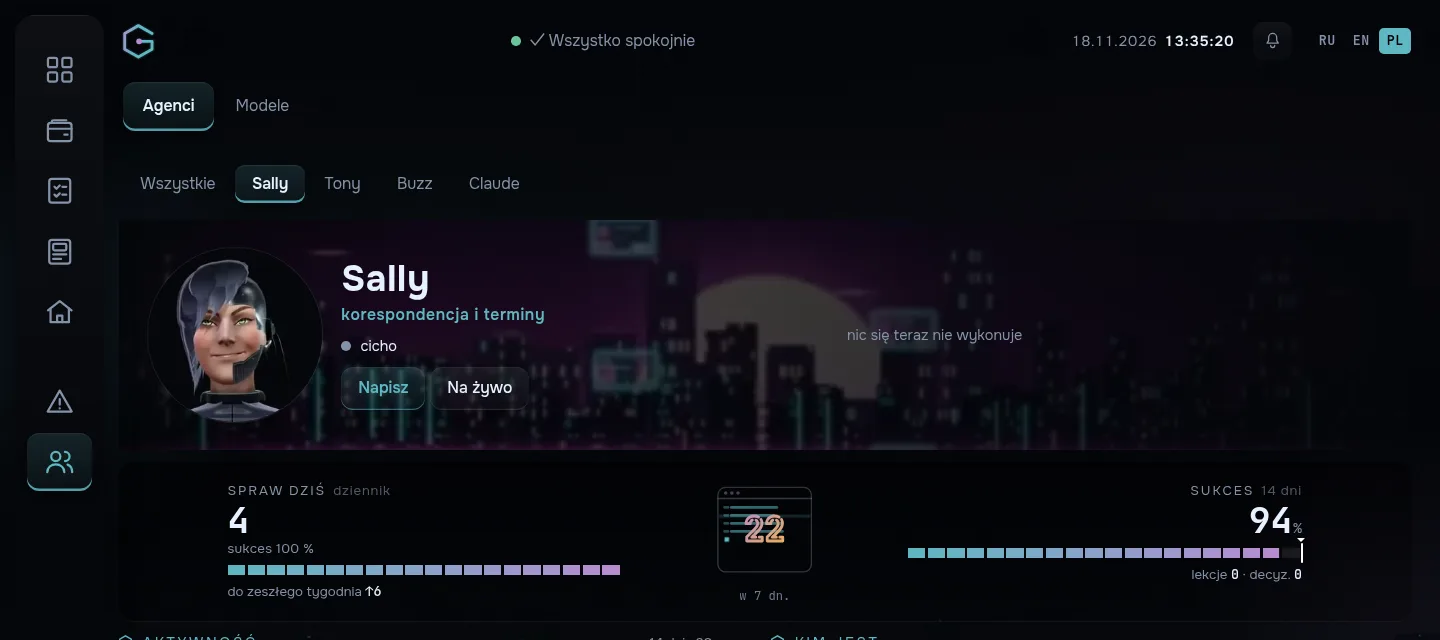
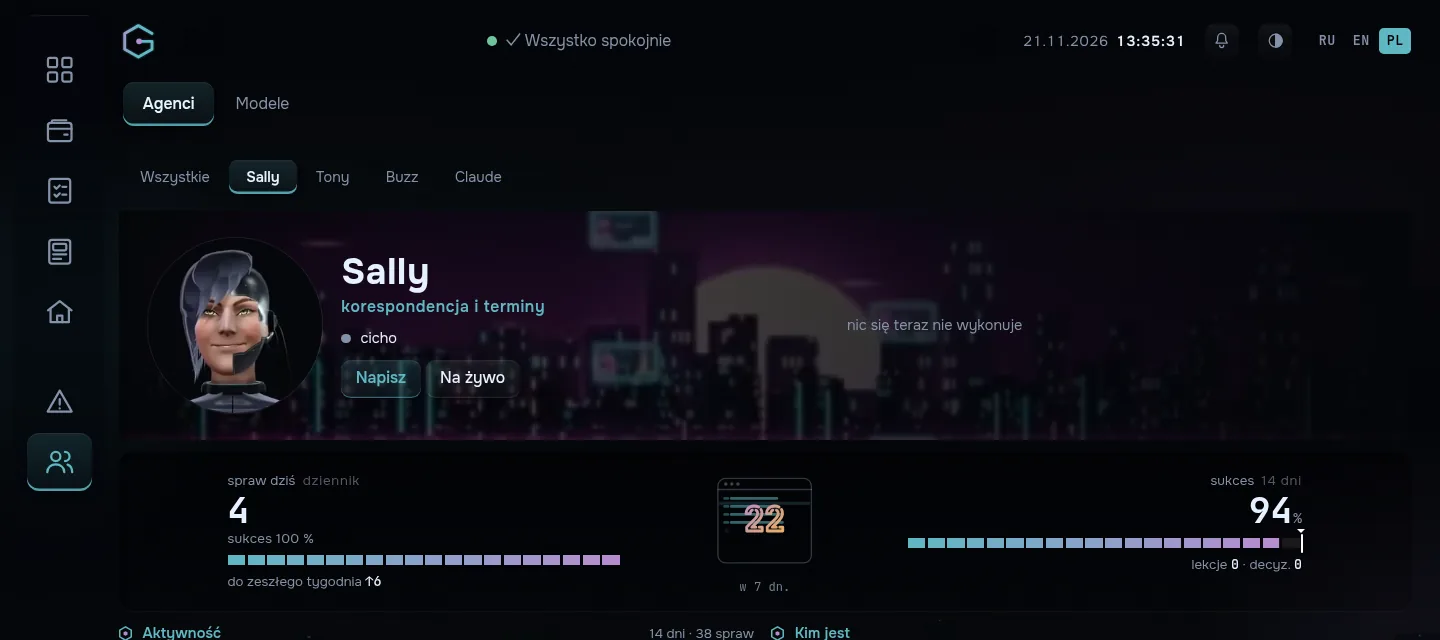
Noc 21.11: panel agentów przenagrany (nagłówki bez wersalików, przełącznik motywu, szklany pasek telefonu); dziennik 3 wpisy (szkło rdzenia z przed/po, Ustawienia i Skupienie pulpitu, żywe awarie i prognoza dysku); pulpit: opis Ustawień; panel-demo: ciemny motyw wymuszony, bez pogody, faketime w REA
Głowy bez widocznych zmian (ciemny ton bez zmian, jasne awatary zdjęte 20.11 po zmianie światła).

Nocne-odswiezanie: tak
Kind: feat

diff --git a/tools/panel-demo/rolik_common.py b/tools/panel-demo/rolik_common.py
@@ -24,7 +24,9 @@ PL = [
 # Funkcje JS (tekst do page.evaluate albo do skryptu startowego).
 TR = """(pl) => { const w = document.createTreeWalker(document.body, NodeFilter.SHOW_TEXT); let n;
   while ((n = w.nextNode())) { let t = n.nodeValue, o = t; for (const [a, b] of pl) t = t.replace(new RegExp(a, 'g'), b); if (t !== o) n.nodeValue = t; } }"""
-HIDE_SEL = "[data-key='hud-now'], [data-key='hud-cena'], .auth-user-chip"   # pasek finansów, «Dom (tylko odczyt)»
+HIDE_SEL = "[data-key='hud-now'], [data-key='hud-cena'], .auth-user-chip, .gc-wx"   # pasek finansów, «Dom (tylko odczyt)», pogoda (21.11: prawdziwa, po rosyjsku)
+# 21.11.2026: panel idzie za motywem systemu, a headless Chrome prosi o jasny; strona pokazuje kadry ciemne
+DARK = {"color_scheme": "dark"}
 # 10.11.2026: w kadrze bez „Dom (tylko odczyt)” w nagłówku, bez przycisku mostu „Sally ↔ Mark” (do 16.11 „Dom ↔ Praca”) i bez paska finansów (prywatne)
 HIDE = """() => { for (const e of document.querySelectorAll('body *')) { const t = (e.textContent || '').replace(/\\s+/g, ' ').trim();
   if (/^Dom \\(tylko odczyt\\)$/.test(t) || /^Салли ↔ Марк$/.test(t)) e.style.visibility = 'hidden'; }

diff --git a/tools/panel-demo/final.py b/tools/panel-demo/final.py
@@ -2,7 +2,7 @@
 import os, sys
 from playwright.sync_api import sync_playwright
 sys.path.insert(0, os.path.dirname(os.path.abspath(__file__)))
-from rolik_common import PL, TR, HIDE, CYR
+from rolik_common import PL, TR, HIDE, CYR, DARK
 base, out = sys.argv[1], sys.argv[2]   # [modele]
 SHOTS = [  # (имя, путь, ширина, высота, высота кадра)
     ("panel-agenci", "/agenty", 1440, 900, 790),
@@ -27,7 +27,7 @@ errs, cyr = [], {}
 with sync_playwright() as p:
     b = p.chromium.launch(executable_path="/usr/bin/google-chrome", args=["--host-resolver-rules=MAP my.gitcloud.pl 127.0.0.1"])
     for name, path, w, h, ch in SHOTS:
-        ctx = b.new_context(viewport={"width": w, "height": h}, device_scale_factor=2 if w < 500 else int(os.environ.get("DSF", "1")))
+        ctx = b.new_context(viewport={"width": w, "height": h}, device_scale_factor=2 if w < 500 else int(os.environ.get("DSF", "1")), **DARK)
         ctx.add_cookies([{"name": "gc_lang", "value": "pl", "url": base}])
         pg = ctx.new_page()
         pg.on("console", lambda m, n=name: m.type == "error" and errs.append(f"{n}: {m.text[:120]}"))

diff --git a/tools/panel-demo/rolik.py b/tools/panel-demo/rolik.py
@@ -4,12 +4,12 @@ from playwright.sync_api import sync_playwright
 sys.path.insert(0, os.path.dirname(os.path.abspath(__file__)))
 base, out = "http://my.gitcloud.pl:18932", sys.argv[1]
 os.makedirs(out + "/frames", exist_ok=True)
-from rolik_common import init, CYR, koduj
+from rolik_common import init, CYR, koduj, DARK
 INIT = init()
 frames, errs, cyr = [], [], {}
 with sync_playwright() as p:
     b = p.chromium.launch(executable_path="/usr/bin/google-chrome", args=["--host-resolver-rules=MAP my.gitcloud.pl 127.0.0.1"])
-    ctx = b.new_context(viewport={"width": 1280, "height": 720})
+    ctx = b.new_context(viewport={"width": 1280, "height": 720}, **DARK)
     ctx.add_cookies([{"name": "gc_lang", "value": "pl", "url": base}])
     ctx.add_init_script(INIT)
     pg = ctx.new_page()

diff --git a/tools/odswiez/PLAN.md b/tools/odswiez/PLAN.md
@@ -1,35 +1,38 @@
 # Plan prowadzenia strony (aktualizowany co noc)
 
-Ostatnia noc: 2026-11-20 (dziennik: 3 wpisy; głowy przenagrane w ciemnym tonie, różnica w 360 px niewidoczna, zostały stare; pilot i panel bez zmian w ciemnym motywie)
+Ostatnia noc: 2026-11-21 (dziennik: 3 wpisy; panel agentów przenagrany, 4 kadry: nagłówki bez wersalików, przełącznik motywu, szklany pasek telefonu; głowy bez widocznych zmian)
 
 ## Nieaktualne
+- Panel: kadry decyzji (panel-decyzje*), modeli (panel-modele*), okładki agenci/panel i filmy agenci.mp4, panel.mp4
+  mają jeszcze nagłówki wersalikami sprzed 20.11. Przenagrać tak jak 21.11 panel-agenci: `faketime` 13:35, `DARK`,
+  bez pogody (tools/panel-demo/README.md). Grupa „panel” w tabeli odświeżania nie patrzy na gitcloud-core, choć wygląd
+  panelu zmienia się głównie w rdzeniu; dopisać rdzeń (static, gate) do źródeł grupy w host/site-refresh.
 - Konsola ISP (public/img/demo): zrzuty z 05.11 w niebieskim motywie „Kolor”. Przenagrać, gdy platforma ISP dostanie
   ciemny motyw zbliżony do panelu; inaczej zostają.
 - Pulpit (pulpit-gitcloud): film pulpit.mp4 nagrany ręcznie, przepisu w repo nie ma. Przenagrać dopiero z przepisem
-  (profil demo pulpitu, wymyślone pliki, bez prawdziwego ekranu). Od 14.11 pulpit ma szklane menu nad stroną.
-- Głowy: od 18-19.11 cień pod szczęką i ciepłe podświetlenie od dołu; w kadrach 360 px prawie niewidoczne (19 i 20.11
-  przenagrane, zostały stare). Przenagrać razem z następną widoczną zmianą. clip.py wymusza teraz &tone=dark.
+  (profil demo pulpitu, wymyślone pliki, bez prawdziwego ekranu). Od 20.11 pulpit ma okno Ustawień, tryb Skupienie,
+  szklane menu i cieńsze ikony.
+- Głowy: od 18-19.11 cień pod szczęką i ciepłe podświetlenie od dołu; w kadrach 360 px prawie niewidoczne. Zmiany
+  głowy z 20.11 to ruch (wzrok, usta) i szybkość; ciemny ton bez zmian. Przenagrać z następną widoczną zmianą.
 
 ## Do pokazania
-- Jasny motyw (19.11): głowy mają jasne skórki (porcelanowa obudowa, srebrne włosy Sally), pilot paletę jasnego tonu.
-  Wpis wizualny „ten sam agent w dwóch motywach”: clip.py z &tone=light, kadr obok ciemnego; pilot przez render.py,
-  jeśli symulator umie jasny ton.
+- Jasny motyw: głowy mają jasne awatary (agenci/<kto>-light.webp, studio na białym). Wpis „ten sam agent w dwóch
+  motywach”: kadr jasny obok ciemnego; pilot przez render.py, jeśli symulator umie jasny ton.
 - Nowy projekt w katalogu (decyzja właściciela #1312, 13.11): następny projekt z repozytoriów lub Useme, którego
   jeszcze nie ma na stronie; gałąź + zrzuty na danych przykładowych, PL/EN/RU.
 - Centrum bezpieczeństwa rdzenia (ocena od 0 do 100, „Napraw”, dziennik tarczy): kadr na danych przykładowych. W
   tools/panel-demo nie ma jeszcze danych tarczy; dopisać je do fake.py jak dla dziennika agentów.
-- Tabele rdzenia (szerokość kolumn myszą, numery stron, panel filtrów) i jedna skala przycisków: przy następnym
-  nagraniu panelu pokazać tabelę z panelem filtrów.
+- Tabele rdzenia (szerokość kolumn myszą, numery stron, panel filtrów): przy nagraniu panelu tabela z filtrami.
 - Nić sprawy w ruchu: pętla kilku sekund (dane w tools/panel-demo/fake_dec.py, PLANS), screencast jak rolik.py.
 - Czat głów na pulpicie: kadr z trzema awatarami na danych przykładowych.
-- Ćwiczenia awarii (serwer z kodu w zagnieżdżonej maszynie): schemat kroków do strony platformy danych, od zera.
+- Ćwiczenia awarii (serwer z kodu, żywe awarie raz w miesiącu): schemat kroków do strony platformy danych.
 
 ## Nie udało się / ograniczenia
 - Pilot: okno rozmowy (Sally, Tony) i strona „Dźwięk” są od 18.11 w tools/pilot/scenariusz-glos.txt (warsztat strony).
   Wiersz trybów ze sprawą w toku jeszcze nie występuje w scenariuszu.
 
-## SEO (Marek, obchód 15.11; zrobione: EN/RU platforma-dzialu-it, EN baza-b2b-nl-be, RU dyzurny; /cv/ od 18.11 noindex i poza mapą)
-- Title > 70 znaków: główna PL/EN/RU (od 18.11: 80/85/78) zostaje, to pozycjonowanie właściciela.
+## SEO (Marek, obchód 15.11; wszystko poza główną zrobione)
+- Title > 70 znaków: główna PL/EN/RU zostaje, to pozycjonowanie właściciela.
 
 ## Pomysły
 - Krótki film „noc w GitCloud”: co robią zadania nocne (kopie, przegląd kodu, dokumentacja, przenoszenie wspólnego

diff --git a/tools/panel-demo/README.md b/tools/panel-demo/README.md
@@ -6,6 +6,10 @@ i podprocesy, zapytania SQL obsługuje `fake.py` (wymyślony dziennik spraw agen
     cd ~/src/gitcloud-ai && PORT=18932 .venv/bin/python <repo>/tools/panel-demo/run.py &
     python final.py http://my.gitcloud.pl:18932 <katalog>    # Playwright, Chrome z MAP my.gitcloud.pl 127.0.0.1
 
+21.11.2026: dane `fake.py` liczą się od bieżącej godziny, więc w nocy lista „Dziś” wygląda dziwnie; panel uruchamiać
+pod `faketime '<data> 13:35:00'` (jak kadry z 18.11). Panel idzie za motywem systemu, a headless Chrome prosi o jasny:
+konteksty mają `DARK` (color_scheme dark) z `rolik_common.py`; prawdziwa pogoda w nagłówku (`.gc-wx`) jest w `HIDE_SEL`.
+
 `final.py` tłumaczy kilka brakujących napisów na polski i sprawdza, czy w kadrze nie ma cyrylicy. Wspólne dla zrzutów
 i filmów jest w `rolik_common.py`: zamiany napisów `PL`, `HIDE` (bez „Dom (tylko odczyt)”, przycisku mostu i paska
 finansów), kontrola cyrylicy `CYR`, kodowanie filmu `koduj`. Warsztaty (`workshop.py`) czytają prawdziwy stan z dysku,
